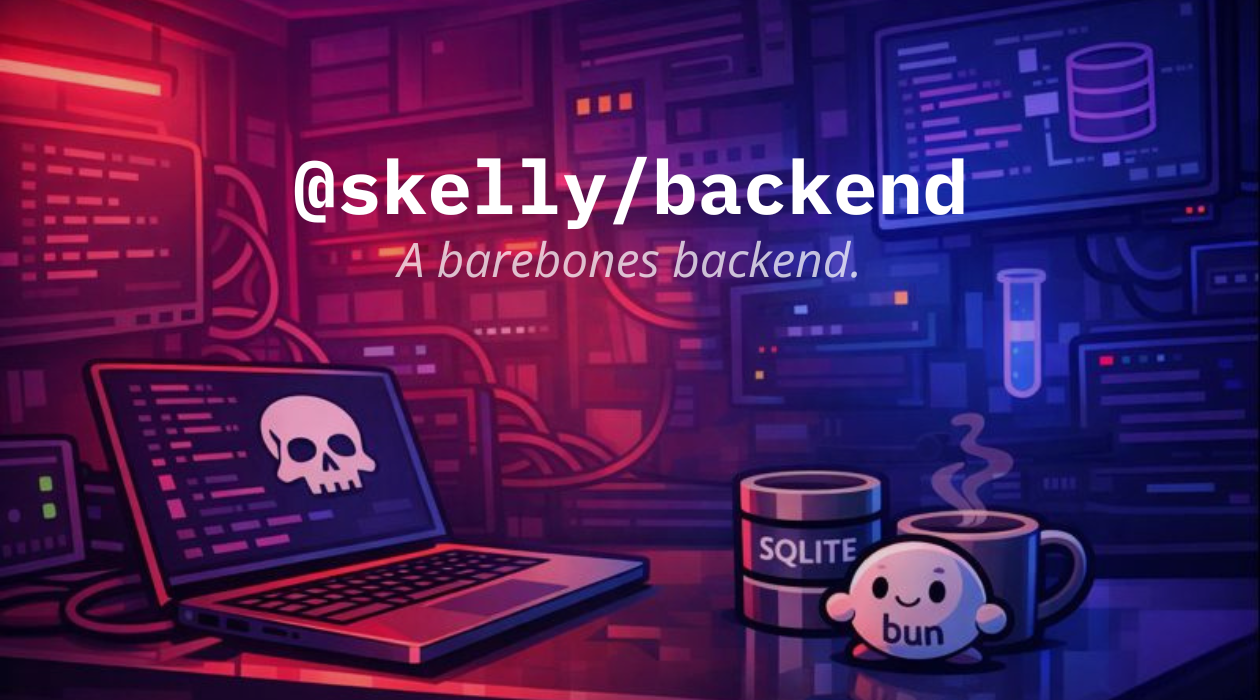
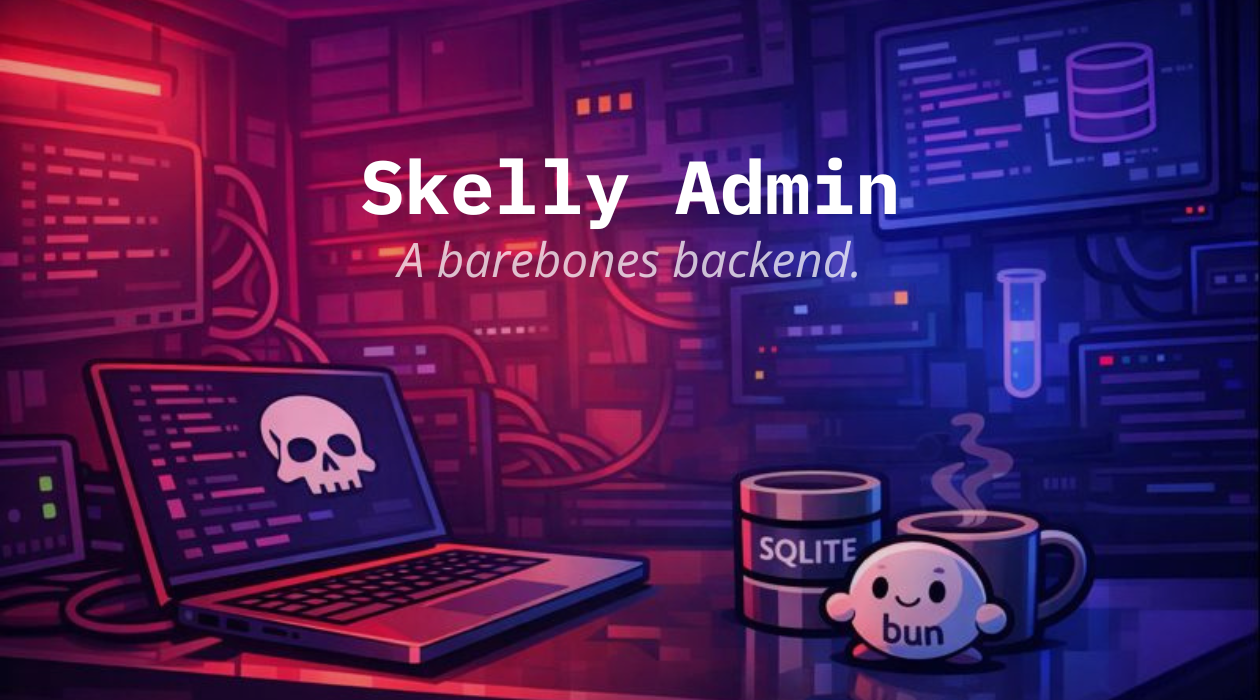
chore(backend): updated README

Changed region(s): [[0.2167, 0.21, 0.7738, 0.33]]

diff --git a/src/routes/healthCheck.ts b/src/routes/healthCheck.ts
@@ -15,10 +15,10 @@ export const healthRouter = router({
         }).format(now);
 
         return {
-            app: "skelly-backend",
+            app: "skelly backend",
             status: "ok",
             timestamp: formattedTimestamp,
-            message: "This means your this app is connected to your backend via tRPC"
+            message: "If you see this, it means your backend is working."
         };
     }),
 });

diff --git a/README.md b/README.md
@@ -1,7 +1,7 @@
 ![Project Banner](./image.png)
 
 
-# 💀 @skelly/backend
+# Skelly Admin
 
 > A tiny, opinionated backend skeleton for product-first builders.
 
